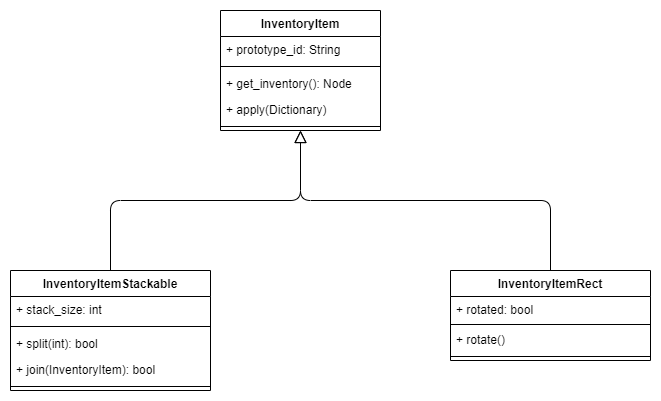
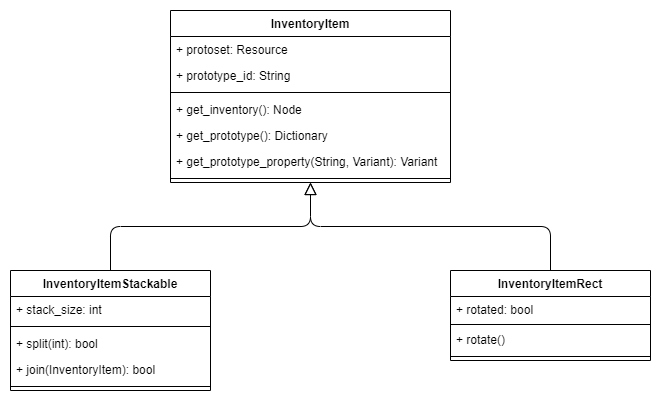
[README.md] Updating according to latest changes

diff --git a/README.md b/README.md
@@ -4,9 +4,9 @@ An universal inventory system for the Godot game engine (version 3.x and newer).
 
 ## Features
 
-### Item Definitions
+### Item Prototypes
 
-* ![](images/icon_item_definitions.svg "ItemDefinitions icon") `ItemDefinitions` - A resource type holding an array of inventory item prototypes in JSON format.
+* ![](images/icon_item_protoset.svg "ItemProtoset icon") `ItemProtoset` - A resource type holding a set of inventory item prototypes in JSON format.
 
 ### Inventory Items
 
@@ -38,45 +38,37 @@ An universal inventory system for the Godot game engine (version 3.x and newer).
 
 ## Usage
 
-1. Create an `ItemDefinitions` resource that will hold all the item prototypes used by the inventory. The resource has a single property `json_data` that holds all item prototype information in JSON format.
-2. Create an inventory node in your scene. Set its capacity if needed (required for `InventoryStacked` and `InventoryGrid`) and set its `item_definitions` property (previously created).
+1. Create an `ItemProtoset` resource that will hold all the item prototypes used by the inventory. The resource has a single property `json_data` that holds all item prototype information in JSON format.
+2. Create an inventory node in your scene. Set its capacity if needed (required for `InventoryStacked` and `InventoryGrid`) and set its `item_protoset` property (previously created).
 3. To add items to the inventory set its `contents` property. List the prototype IDs of the items that you want added to the inventory.
     **NOTE**: Pay attention to the inventory capacity to avoid assertions when the scene is loaded.
 4. (*Optional*) Create item slots that will hold various items (for example the currently equipped weapon or armor).
 5. Create some UI controls to display the created inventory and its contents.
 6. Call `add_item()`, `remove_item()`, `transfer_item()` etc. from your scripts to move items around multiple inventory nodes. Refer to the class diagrams for more details about the available properties, methods and signals for each class.
 
-## Creating Item Definitions
+## Creating Item Prototypes
 
-Item definitions represent a number of item prototypes based on which future inventory items will be created.
+Item protosets represent a number of item prototypes based on which future inventory items will be created.
 It also defines the type of the inventory these items will be contained in.
 
-### Minimal Item Definition JSON
+### Minimal Item Protoset JSON
 
-There are a few requirements each item definitions JSON must fulfill:
+There are a few requirements each protoset JSON must fulfill:
 
-* The JSON must be a JSON object.
-* The JSON must contain the `inventory_type` property. It represents the type of inventory the items prototypes are defined for. It can have on of the following values:
-    * `basic` - for basic inventories (`Inventory`)
-    * `stack` - for stack based inventories (`InventoryStacked`)
-    * `grid` - for grid based inventories (`InventoryGrid`)
-* The JSON must also contain the `items_prototypes` array.
-* Each `items_prototypes` element must contain the `id` property uniquely identifying the prototype.
+* The JSON must be a JSON array.
+* Each element of the array must contain the `id` property uniquely identifying the prototype.
 
-Below is an example of a minimal item definitions JSON:
+Below is an example of a minimal item protoset JSON:
 
 ```json
-{
-    "inventory_type": "basic",
-    "items_prototypes": [
-        {
-            "id": "minimal_item"
-        }
-    ]
-}
+[
+    {
+        "id": "minimal_item"
+    }
+]
 ```
 
-### Item Definitions for a Stack Based Inventory
+### Item prototypes for a Stack Based Inventory
 
 Prototypes of items contained in stack based inventories support the following additional properties:
 
@@ -106,7 +98,7 @@ Example:
 }
 ```
 
-### Item Definitions for a Grid Based Inventory
+### Item prototypes for a Grid Based Inventory
 
 Prototypes of items contained in stack based inventories support the following additional properties:
 
@@ -156,20 +148,17 @@ Example:
 }
 ```
 
-Any of the item properties can be access from code through the `item_definitions` property of the `Inventory` classes:
+Any of the item properties can be access from code through the `get_prototype()` and `get_prototype_property()` methods of the `InventoryItem` classes:
 ```
 var item_name = ""
-if item.prototype.has("name"):
-    item_name = item_definitions["name"]
-var item_description = ""
-if item.prototype.has("description"):
-    item_description = item_definitions["description"]
+if item.get_prototype().has("name"):
+    item_name = item.get_prototype()["name"]
+var item_description = item.get_prototype_property("description", "")
 ```
 
 ## Creating New Inventory Types
 
-Coming up with new inventory types that can also be used in item definition JSON structures (`inventory_type` property) requires inheriting from on of the available inventory classes (`Inventory`, `InventoryStacked` or `InventoryGrid`) and overriding the `get_type()` method. The `get_type()` method should always return a string that uniquely defines the inventory type.
-
+Coming up with new inventory types can be done by inheriting from one of the available inventory classes (`Inventory`, `InventoryStacked` or `InventoryGrid`).
 In case the new inventory type is also meant to be used with a custom inventory item type (derived from `InventoryItem`), the `get_item_script()` should also be overridden so that it returns the script from which these custom items can be instantiated from.
 
 Example custom_inventory.gd
@@ -177,21 +166,8 @@ Example custom_inventory.gd
 extends Inventory
 class_name CustomInventory
 
-func get_type() -> String:
-    return "custom"
-
 static func get_item_script() -> Script:
     return preload("res://custom_item.gd")
-```
-
-Example item definitions JSON
-```json
-{
-    "inventory_type": "custom",
-    "item_prototypes": [
-        "id": "custom_item_01",
-    ]
-}
 ```
 
 ## The API
@@ -206,7 +182,7 @@ TODO
 
 ![ItemSlot class diagram](images/cd_item_slot.png "ItemSlot class diagram")
 
-![ItemDefinitions class diagram](images/cd_item_definitions.png "ItemDefinitions class diagram")
+![ItemProtoset class diagram](images/cd_item_protoset.png "ItemProtoset class diagram")
 
 ## Examples
 
